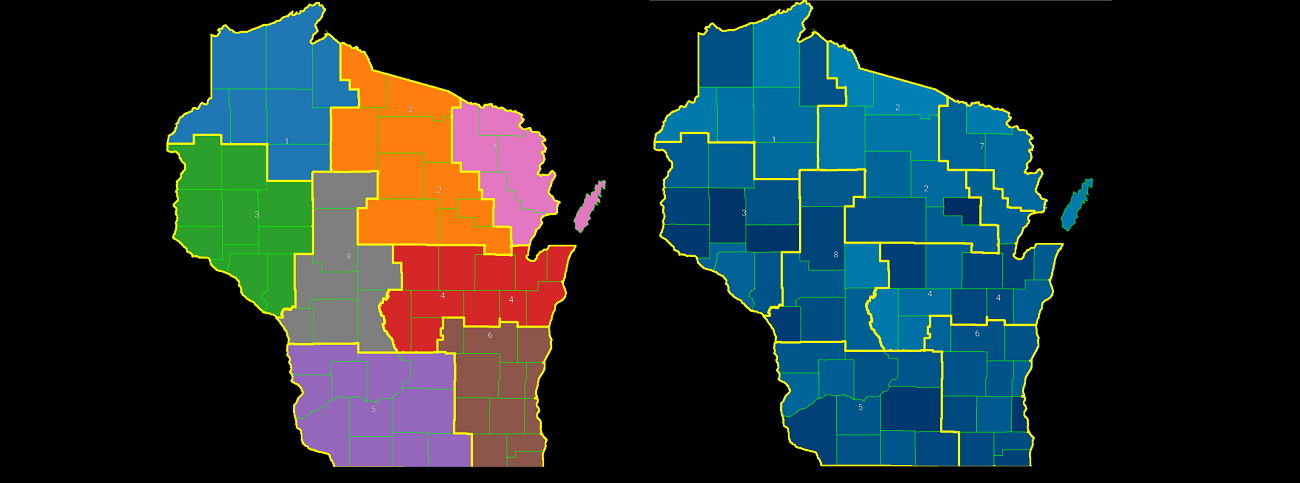
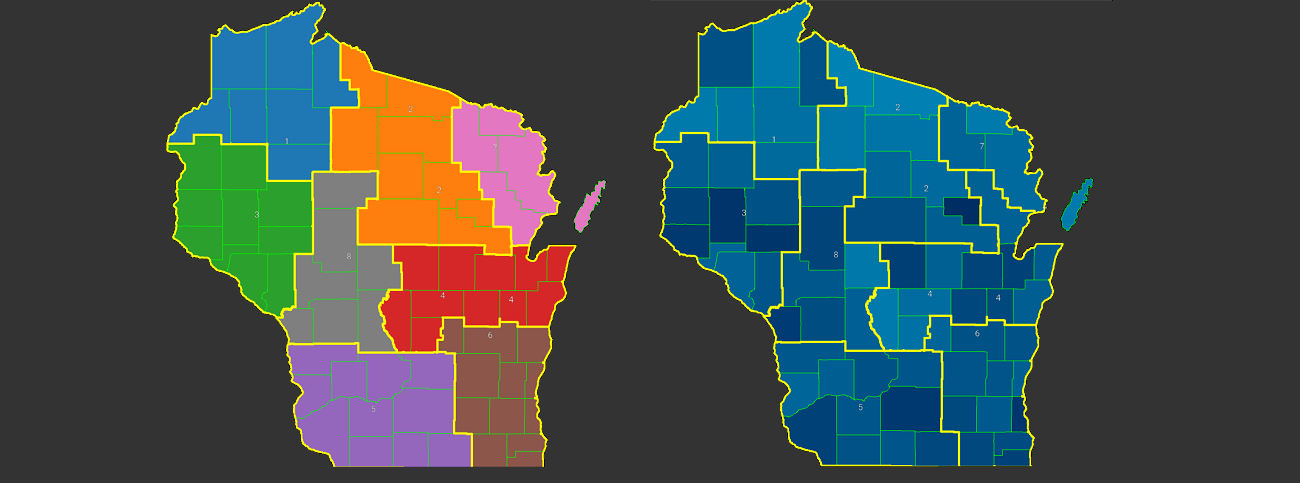
Add ML projects and switch theme.

diff --git a/_software_projects/glitter.md b/_software_projects/glitter.md
@@ -22,43 +22,43 @@ gallery:
     alt: "Glitter"
 ---
 
-[Glitter](https://github.com/matham/glitter) is a app written in Python, using [Kivy](kivy.org) and [FFPyPlayer](/software_projects/ffpyplayer/), that enables users to efficiently code animal behaviors (e.g. eating) using video recording of experiments. It also allows users to track the position of the animal using touch or with a mouse. Data is saved in the [HDF5](https://www.hdfgroup.org/) format and can be exported and analyzed using Python scripts.
+[Glitter](https://github.com/matham/glitter) is a app I developed in **Python**, using [Kivy](kivy.org) and [FFPyPlayer](/software_projects/ffpyplayer/), that enables users to efficiently code animal behaviors (e.g. eating) using video recording of experiments. It also allows users to track the position of the animal using touch or with a mouse. Data is saved in the [HDF5](https://www.hdfgroup.org/) format and can be exported and analyzed using Python scripts.
 
-## Background
+## App
 
-Most behavior experiments with animals that are not live-scored, are video recorded, scored by multiple human scores, and then statistically analyzed. Although there is commercial software to track animal position, it is often inaccurate, especially for experiments under difficult or uneven backgrounds. No software currently commercially exists that can automatically score higher level behavior, such as eating accurately.
-
-We needed software that can:
-
-* Replay experimental video,
-* Support manual coding of higher level behavior by having a user press a button or a keyboard key when a behavior occurs,
-* Support user tracing of animal position using touch screen or a mouse. Either placing new traces, or correcting the automatic traces of commercial software. 
-* Support drawing of areas of interest so we can compute when the animal traces intersect those zones.
-* Data file management of the resulting coded data.
-* Export and analysis of the GUI coded data.
-
-## Glitter
-
-Glitter is Python app developed to meet these requirements. It is written in Python and uses [Kivy](kivy.org) for the GUI, [FFPyPlayer](/software_projects/ffpyplayer/) for the video, and [HDF5](https://www.hdfgroup.org/) for data storage.
+Glitter is a Python app I developed to meet the requirements below.
 
 ### Interface
 
-Typically, a user
+Following is a overview of the typical workflow to code behavior. A user:
 
-* Loads an experiment video file and creates a data file for it.
-* Creates a data channels for the desired behavior to be tracked. E.g.
-  * A channel that is controlled by the ``g`` key, which when pressed indicates the animal is grooming.
-  * Two channels that track the animals head and tail, respectively.
-  * A area of interest such as a reward cup.
+* **Loads** an experiment **video file** and creates a data file for it.
+* Creates a **data channels** for the desired behavior to be tracked. E.g.
+  * A channel that is controlled by the ``g`` key, which when pressed indicates the animal is **grooming**.
+  * Two channels that **track** the animals **head and tail**, respectively.
+  * A area of interest such as a **reward cup**.
 * Start coding the video
   * Video playback is controlled using the
-    * Space key for pausing/playing.
-    * Right/left arrow keys for seeking.
-    * Up/down arrow keys for logarithmic control over the play speed.
-  * Behavior data is visually shown on a timeline to indicate where behavior occurred, and animal position is similarly displayed.
+    * **Space** key for pausing/playing.
+    * **Right/left** arrow keys for seeking.
+    * **Up/down** arrow keys for logarithmic control over the play speed.
+  * Behavior data is **visually** shown on a **timeline** to indicate where behavior occurred, and **animal position** is similarly displayed.
+
+## Requirements
+
+Most behavior experiments with animals that are not live-scored, are video recorded, manually scored by multiple **human scores**, and then statistically analyzed. Although there is commercial software to track animal position, it is often **inaccurate**, especially for experiments under difficult or uneven backgrounds. No software currently commercially exists that can automatically score higher level behavior, such as **eating**, accurately.
+
+We needed software that can:
+
+* **Replay** experimental video,
+* Support **manual coding** of higher level behavior by having a user press a button or a **keyboard key** when a behavior occurs,
+* Support user **tracing of animal position** using touch screen or a mouse. Either placing new traces, or correcting the automatic traces of commercial software. 
+* Support drawing of **areas of interest** so we can compute when the animal traces intersect those zones.
+* Data file management of the resulting **coded data**.
+* Export and **analysis** of the GUI coded data.
 
 ### Analysis
 
-After coding, data is accessible in Python using a object oriented interface. We can export information such as the duration of behavior events or the speed of the animal in a particular zone.
+After coding, data is accessible in **Python** using a **object oriented interface**. We can export information such as the duration of behavior events or the speed of the animal in a particular zone.
 
 {% include gallery caption="Glitter gallery" %}

diff --git a/_software_projects/ffpyplayer.md b/_software_projects/ffpyplayer.md
@@ -1,40 +1,40 @@
 ---
 title: "FFPyPlayer: Python media player/writer library"
-excerpt: "[FFPyPlayer](https://github.com/matham/ffpyplayer) is a Python *(and Cython)* media player and writer, supporting media files, webcams, etc. It is open source and based on FFmpeg."
+excerpt: "[FFPyPlayer](https://github.com/matham/ffpyplayer) is a Python media player, supporting media files, webcams, etc. It is open source and based on FFmpeg."
 header:
   overlay_color: "#333"
 ---
 
-[FFPyPlayer](https://github.com/matham/ffpyplayer) is a open source FFmpeg based Python media player that supports playing media files, USB cams, ethernet cams. It is written in Cython to get c-level performance with ease of use of Python. See the [documentation](https://matham.github.io/ffpyplayer/index.html) for full details.
+[FFPyPlayer](https://github.com/matham/ffpyplayer) is a open source **FFmpeg** based **Python** media player that supports playing media files, USB cams, ethernet cams. It is written in **Cython** to get **c**-level performance with ease of use of Python. See the [documentation](https://matham.github.io/ffpyplayer/index.html) for full details.
 
-[Kivy](kivy.org) uses FFPyPlayer as their video/audio backend on iOS and Android and supports it as a optional backend on all other platforms. 
+[Kivy](kivy.org) uses FFPyPlayer as its video/audio backend on iOS and Android and supports it as a optional backend on all other platforms.
 
-## Background
+## Technology
+
+The player in FFPyPlayer is a **python/cython** port of ffplay (written in C) that I implemented using **OOP** and meets all the requirements below. It is **high performance**, including **zero frame copying** after decoding. 
+
+The **image utilities** and **media writer** is an OOP interface to the FFmpeg low-level C-API. It currently only supports video and no audio.
+
+FFPyPlayer supports:
+
+* Direct show devices such as **USB cams**, on Windows. A list of available cameras can be queried.
+* **Web cameras** such as ethernet cameras and any **other media sources** supported by FFmpeg.
+* Reading video sources with **zero-copying** of the image data.
+* Filtering the media being played with any of the **FFmpeg filters**.
+* **Image utilities** to convert between image formats. E.g. `yuv420p` -> `RGBA`.
+* **Writing** to a video file.
+
+## Requirements
 
 Working in a neuroscience lab, we needed a lightweight and Pythonic way to read video from webcams and other media sources and to record them to disk. E.g. in one experiment, we needed to record animal behavior from 8 cameras simultaneously without losing any frames. Some requirements were:
 
 * A Python interface.
 * Playing webcams (USB, ethernet) and video files.
-* Re-playing video should generate identical frame timestamps every time (for reliable animal behavior coding).
+* Re-playing video should generate identical frames every time (for reliable animal behavior coding).
 * Convert between image formats, e.g. `yuv420p` -> `RGBA`.
 * Write to video files, with optional compression.
 
-[FFmpeg](https://www.ffmpeg.org/), likely the most commonly used media library, provides a C-API that meets all these needs. It has a demo ffplay implementation to play media.
-
-## FFPyPlayer
-
-The player in FFPyPlayer is a python/cython port of ffplay implemented using OOP that meets all the requirements. It is high performance, including zero frame copying after decoding. 
-
-The image utilities and media writer is an OOP interface to the FFmpeg low-level C-API. It currently only supports video and no audio.
-
-FFPyPlayer supports:
-
-* Direct show devices such as USB cams, on Windows. A list of available cameras can be queried.
-* Web cameras such as ethernet cameras and any media sources supported by FFmpeg.
-* Reading video sources with zero-copying of the image data.
-* Filtering the media being played with any of the FFmpeg filters.
-* Image methods to convert between image formats. E.g. `yuv420p` -> `RGBA`.
-* Writing to a video file.
+[FFmpeg](https://www.ffmpeg.org/), likely the most commonly used media library, provides a C-API that meets all these needs. It has a demo ffplay implementation to play media from which FFPyPlayer is ported.
 
 
 ## Example usage

diff --git a/_ml/forgetting-online.md b/_ml/forgetting-online.md
@@ -1,0 +1,29 @@
+---
+title: "Preventing Catastrophic Forgetting in an MLP Online Learning Setting"
+excerpt: "To prevent catastrophic forgetting on seasonal weather data in a deep network, we designed a hybrid regression/auto-encoder network and found some improvement over a baseline MLP."
+header:
+  image: /assets/images/forgetting_seasonal.png
+  teaser: assets/images/forgetting_seasonal_small.png
+---
+
+To prevent "[catastrophic forgetting](https://en.wikipedia.org/wiki/Catastrophic_interference)", where a deep network (MLP) forgets old data as its trained with new data in an online fashion. Using **PyTorch** [we designed](https://github.com/matham/cs6787_fa2018) a hybrid **regression/auto-encoder** network, trained it to predict seasonal weather data and found [some improvement](https://github.com/matham/cs6787_fa2018/raw/master/cs6787/paper/Preventing_Catastrophic_Forgetting_in_an_Online_Learning_Setting.pdf) over a **baseline MLP**.
+
+This was a class project for [CS6787: Advanced Machine Learning Systems](http://www.cs.cornell.edu/courses/cs6787/2018fa/), fall of 2018 at Cornell University taught by [Chris De Sa](http://www.cs.cornell.edu/~cdesa/).
+
+## Methods
+
+* **Technology**: I wrote the code in Python using [PyTorch](https://pytorch.org/).
+* **Dataset**: The NOAA hourly weather of weather stations in the US for a whole year.
+* **Network architecture**:
+  * **Baseline**: We used a small **MLP** with a **MSE** loss to predict the hourly temperature.
+  * **AE**: We used an **auto encoder**, where the output of the encoder is connected to the regression layer predicting temperature, in addition to the decoder layer. The loss was a weighted combination of the **AE loss** and **MSE** regression loss.
+  * **Weight constrained**: Similar to the baseline, but we added a **weight-changing loss** to penalize large changes in the network, in addition to the **MSE** loss.
+* **Results**: We found an **improvement** in the AE-MLP hybrid network (**0.15** vs. 0.19 loss; t-test p value: 0.000027; Cohen’s d: 0.81).
+
+## Catastrophic forgetting in seasonal data
+
+The header image shows the test error when training on weather data sequentially. I.e. when training on February data, test error is low for February. But when continuing to train the same network on July data, the test error for February increases, until we continue training on the fall season and then it falls again.
+
+## Abstract
+
+[Catastrophic forgetting is an undesired phenomenon which prevents a neural network from being used for multiple tasks.](https://github.com/matham/cs6787_fa2018/raw/master/cs6787/paper/Preventing_Catastrophic_Forgetting_in_an_Online_Learning_Setting.pdf) We believe that online learning suffers from a similar issue as weights are updated based on most recent data. This can be particularly problematic for data-sets where the time-series data is cyclical in nature, e.g. weather data, and where the cyclic nature of the data is excluded as data feature. Using the NOAA weather data collected from 1981-2010, we first show as a baseline that simply training a multilayer perceptron(MLP) in an online fashion resulted in cyclic spikes in test error. Similar spikes were also observed when the model was re trained with random subsamples of previous data. Finally, we observed that an autoencoder with a novel weighted loss function for an additional regression layer for online learning outperformed the baseline MLP (t-test p value: 0.000027 ; Cohen’s d: 0.81).

diff --git a/_ml/image-selection.md b/_ml/image-selection.md
@@ -1,0 +1,26 @@
+---
+title: "Deep Network to Compute Image-Text Similarity to Help Image Selection"
+excerpt: "Combining an MLP and LSTM, we compute the similarity between a given sentence and all images in a database to recommend the best image to represent the text."
+header:
+  image: /assets/images/image_recommend.png
+  teaser: assets/images/image_recommend_small.png
+---
+
+To help writers select a image from a large image database to help represents a prompt, using **PyTorch** [we designed](https://github.com/matham/cs6740_2018) a network to compute the **similarity** between the **text** prompt and the **images**. We [used](https://github.com/matham/cs6740_2018/raw/master/Neural%20Image-Text%20Similarity%20for%20Image%20Selection.pdf) a **LSTM** for the text, a **ImageNet/DenseNet** for the image, and the cosine similarity to compute their similarity at their final layer. We find promising results as seen in the header image. 
+
+This was a class project for [CS6740: Advanced Language Technologies](http://www.cs.cornell.edu/courses/cs6740/2018sp/), spring of 2018 at Cornell University taught by [Claire Cardie](http://www.cs.cornell.edu/home/cardie/).
+
+## Methods
+
+* **Technology**: We wrote the code in Python using [PyTorch](https://pytorch.org/). I wrote the DenseNet and training/inference code.
+* **Dataset**: Coco 2017 dataset, that contains many images and 5 captions per image.
+* **Network architecture**:
+  * **LSTM**: We encoded the text using the GloVe embedding and passed it to a LSTM that outputs a vector.
+  * **DenseNet**: We encode the image using a DenseNet trained on ImageNet that outputs a vector.
+  * **Cosine similarity**: We compute the cosine similarity between the output vectors of the image and text.
+  * **Inference**: Using the cosine similarity, we pick the image with the closest similarity to the text vector.
+* **Results**: As can be seen in the header, the images selected for prompts were related to the prompt, although there's still much room for improvement.
+
+## Abstract
+
+[In this paper](https://github.com/matham/cs6740_2018/raw/master/Neural%20Image-Text%20Similarity%20for%20Image%20Selection.pdf) we explore the task of scoring the fit of an image to a caption. This task has many applications, particularly image search, but is also difficult because it combines two challenging fields in artificial intelligence: natural language understanding and image understanding. We propose a two-part model that uses an image encoder and sentence encoder to encode the image and caption into the same learned embedding space, then compute the cosine similarity between the two vectors to produce a final similarity score. The separate encoders allow for pre-computation of image or caption embeddings as applicable, allowing for very fast inference for applications like image search. We train our model on the 2017 COCO Dataset (Lin et al., 2014) and show promising results in experimentation.

diff --git a/_ml/max-feat-extract.md b/_ml/max-feat-extract.md
@@ -1,0 +1,24 @@
+---
+title: "Maximizing Feature Extraction in DNNs for Transfer Learning"
+excerpt: "To improve image classification when using transfer learning from dataset A to B, we tried to increase feature extraction in the pre-trained dataset A."
+header:
+  image: /assets/images/transfer.png
+  teaser: assets/images/transfer_small.png
+---
+
+To improve accuracy in **transfer learning** where a MLP is pre-trained on dataset A such as ImageNet, and then transferred to a new dataset (picture left), using **PyTorch** [we added](https://github.com/matham/cs6784_2017) a new data-driven loss-layer to **DenseNet** to extract more features on dataset A (picture right). We observed no improvement. We also **replicated** previous transfer learning results relating freezing-layer depth with performance.
+
+This was a class project for CS6784: Advanced Topics in Machine Learning, fall of 2017 at Cornell University taught by [Kilian Weinberger](http://kilian.cs.cornell.edu/).
+
+## Methods
+
+* **Technology**: I wrote the code in Python using [PyTorch](https://pytorch.org/).
+* **Dataset**: CIFAR100 dataset that contains 100 image classes (600 images each). We split the dataset for transfer learning.
+* **Network architecture**:
+  * **DenseNet**: We used DenseNet to classify the images in the pre-train/transfer datasets.
+  * **Data driven loss**: In addition to classification loss, we added a loss layer to classify groups of image classes. See right image in the header and the [paper](https://github.com/matham/cs6784_2017/raw/master/data/final%20report.pdf).
+* **Results**: We saw no improvement.
+
+## Abstract
+
+[Transfer learning enables applying the learning from one dataset on another to improve performance.](https://github.com/matham/cs6784_2017/raw/master/data/final%20report.pdf) We replicate previous studies on the relationship between layer depth and feature dataset specificity in AlexNet to DenseNet. We also explored implementing a novel data driven layer that could help extract more features from the first dataset, but we didn't find a significant improvement.

diff --git a/_pages/portfolio.md b/_pages/portfolio.md
@@ -10,6 +10,14 @@ distopia:
     url: "/software_projects/distopia/"
     btn_label: "Read More"
     btn_class: "btn--primary"
+forgetting:
+  - image_path: /assets/images/forgetting_seasonal_small.png
+    alt: "catastrophic forgetting"
+    title: "Preventing Catastrophic Forgetting in an MLP Online Learning Setting"
+    excerpt: 'To prevent catastrophic forgetting on seasonal weather data in a deep network, we designed a hybrid regression/auto-encoder network and found some improvement over a baseline MLP.'
+    url: "/software_projects/forgetting-online/"
+    btn_label: "Read More"
+    btn_class: "btn--primary"
 glitter:
   - image_path: /assets/images/glitter_small.png
     alt: "Glitter app"
@@ -23,5 +31,7 @@ glitter:
 Selection of [software](/software_projects/) and [hardware](hardware_projects/) projects
 
 {% include feature_row id="distopia" type="left" %}
+
+{% include feature_row id="forgetting" type="left" %}
 
 {% include feature_row id="glitter" type="left" %}

diff --git a/_pages/ml.md b/_pages/ml.md
@@ -1,7 +1,7 @@
 ---
 title: "Machine learning Projects"
 layout: collection
-entries_layout: grid
+entries_layout: image_list
 collection: ml
 permalink: /ml/
 ---
